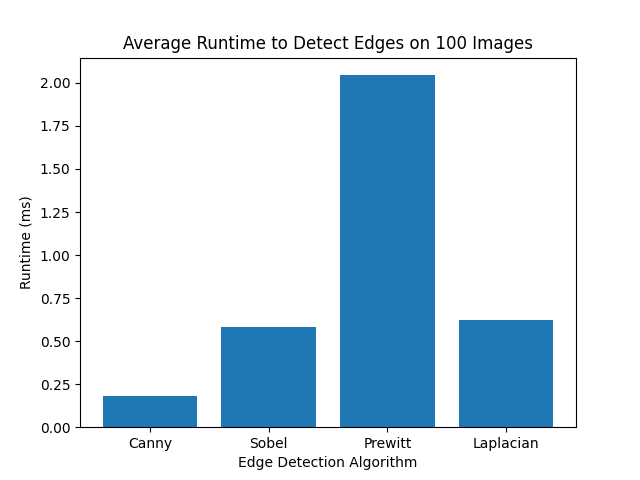
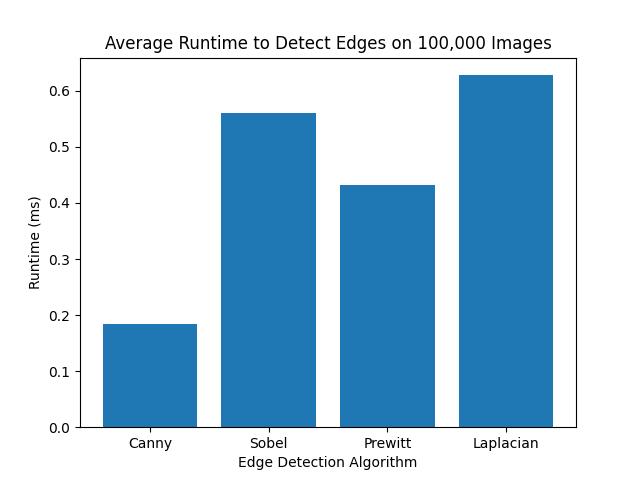
updated figure

diff --git a/efficiency_evaluation.py b/efficiency_evaluation.py
@@ -35,7 +35,7 @@ def display_results(times):
 
     plt.xlabel('Edge Detection Algorithm')
     plt.ylabel('Runtime (ms)')
-    plt.title('Average Runtime to Detect Edges on 100 Images')
+    plt.title('Average Runtime to Detect Edges on 100,000 Images')
 
     plt.savefig('efficiency_evaluation.png')
     plt.show()
